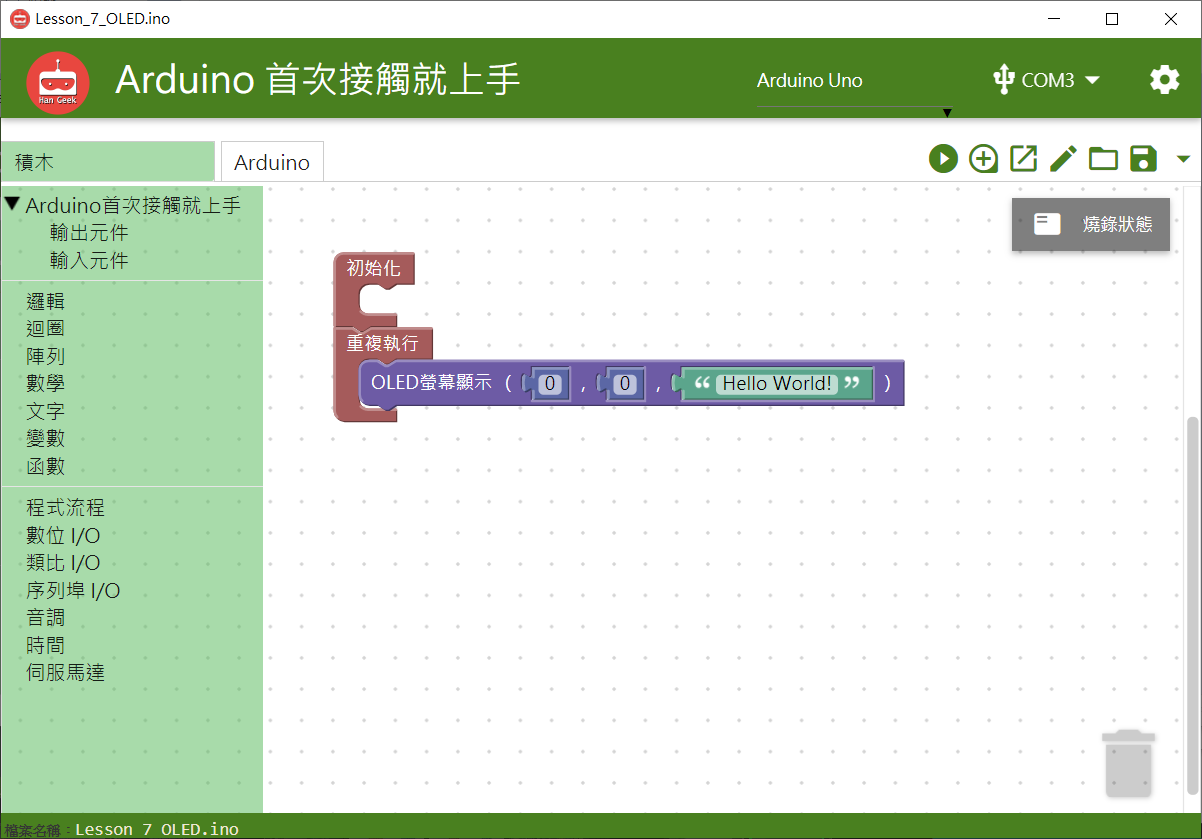
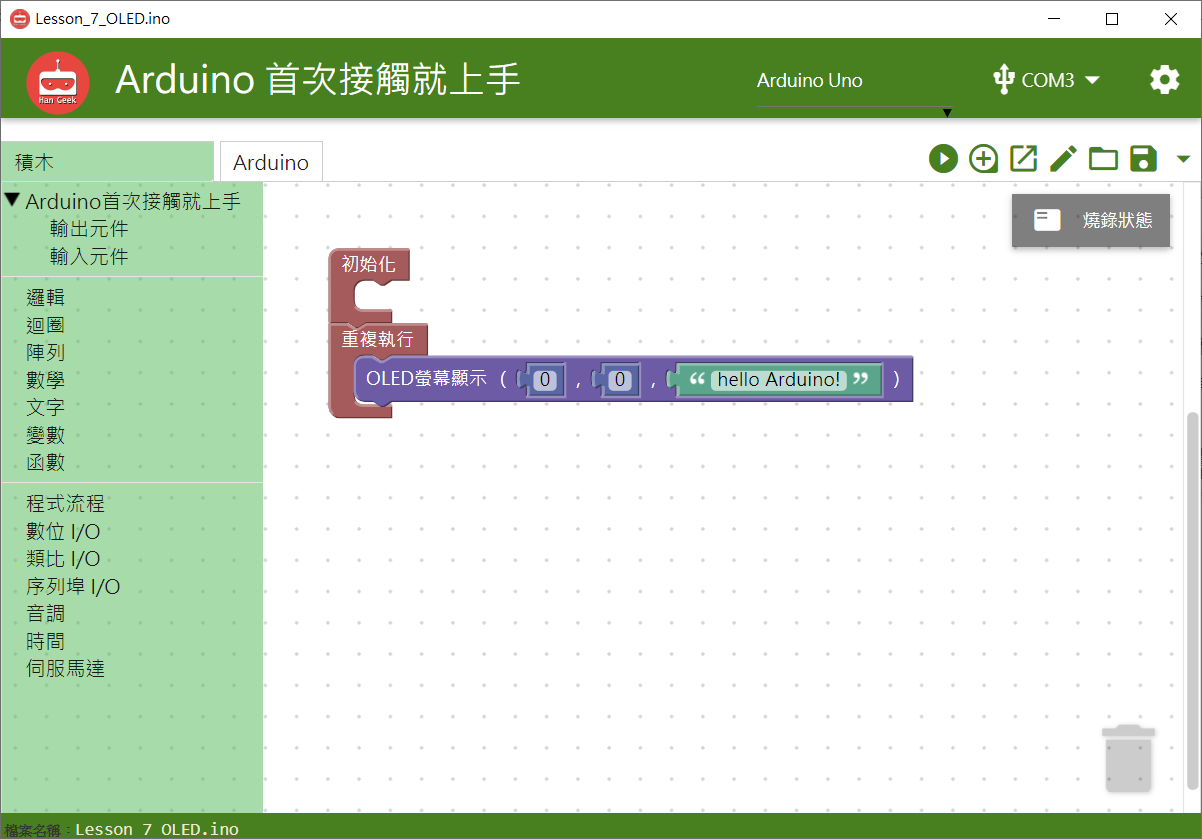
GitBook: [master] one page and 2 assets modified

diff --git a/hangeekduino/hangeekduino_intro/output_module/oled.md b/hangeekduino/hangeekduino_intro/output_module/oled.md
@@ -9,12 +9,12 @@
 ## **對應的**Arduino 語法
 
 ```text
-  u8x8.print("Hello World!");
+  u8x8.print("hello Arduino!");
 ```
 
 ### 範例 BlocklyDuino 積木畫布
 
-在OLED螢幕畫面上0, 0的位置上顯示Hello World!。
+在OLED螢幕畫面上0, 0的位置上顯示hello Arduino!。
 
 ![](../../../.gitbook/assets/lesson_7_oled.png)
 
@@ -36,7 +36,7 @@ void setup()
 void loop()
 {
   u8x8.setCursor(0, 0);
-  u8x8.print("Hello World!");
+  u8x8.print("hello Arduino!");
 }
 ```
 
